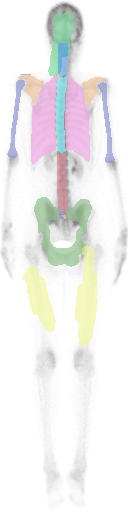
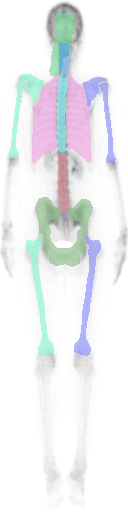
split done

diff --git a/templates/label_front.html b/templates/label_front.html
@@ -64,15 +64,19 @@
 						<Label value="Skull" background="rgba(21, 193, 78, 0.7)"/>
 						<Label value="Cervical Vert" background="rgba(0, 121, 255, 0.7)"/>
 						<Label value="Thoracic Vert" background="rgba(0, 228, 255, 0.7)"/>
-						<Label value="Clavicle" background="rgba(109, 21, 193, 0.7)"/>
+						<Label value="Clavicle_r" background="rgba(109, 21, 193, 0.7)"/>
+						<Label value="Clavicle_l" background="rgba(109, 21, 193, 0.7)"/>
 						<Label value="Ribs" background="rgba(228, 70, 206, 0.7)"/>
-						<Label value="Scapula" background="rgba(224, 131, 46, 0.7)"/>
+						<Label value="Scapula_r" background="rgba(224, 131, 46, 0.7)"/>
+						<Label value="Scapula_l" background="rgba(224, 131, 46, 0.7)"/>
 						<Label value="Sternum" background="rgba(129, 64, 4, 0.7)"/>
-						<Label value="Humerus" background="rgba(14, 24, 156, 0.7)"/>
+						<Label value="Humerus_r" background="rgba(14, 24, 156, 0.7)"/>
+						<Label value="Humerus_l" background="rgba(14, 24, 156, 0.7)"/>
 						<Label value="Lumbar Vert" background="rgba(235, 210, 52, 0.7)"/>
 						<Label value="Sacrum" background="rgba(255, 122, 0, 0.7)"/>
 						<Label value="Pelvis" background="rgba(16, 119, 7, 0.7)"/>
-						<Label value="Femur" background="rgba(225, 235, 52, 0.7)"/>
+						<Label value="Femur_r" background="rgba(225, 235, 52, 0.7)"/>
+						<Label value="Femur_l" background="rgba(225, 235, 52, 0.7)"/>
 					</BrushLabels>
 				</View>
 			  `,

diff --git a/module/my_engine_modified_v2.py b/module/my_engine_modified_v2.py
@@ -158,41 +158,140 @@ def crop(img_direction):
 
     d = img.getdata()
 
-    bone_name = ["Skull", "CervicalVert", "ThoracicVert", "Ribs", "Strenum", "Clavicle", "Scapula", "Humerus", "LumbarVert", "Sacrum", "Pelvis", "Femur"]
+    # bone_name = ["Skull", "CervicalVert", "ThoracicVert", "Ribs", "Strenum", "Clavicle", "Scapula", "Humerus", "LumbarVert", "Sacrum", "Pelvis", "Femur"]
+    bone_name = ["Skull", 
+                "CervicalVert", 
+                "ThoracicVert", 
+                "Ribs", 
+                "Strenum", 
+                "Clavicle_r", 
+                "Clavicle_l", 
+                "Scapula_r", 
+                "Scapula_l", 
+                "Humerus_r", 
+                "Humerus_l", 
+                "LumbarVert", 
+                "Sacrum", 
+                "Pelvis", 
+                "Femur_r", 
+                "Femur_l"]
     color = [0, 17, 34, 51, 68, 85, 102, 119, 136, 153, 170, 187]
 
     index_bone_name = 0
 
-    for c in color:
+    for bone in bone_name:
         new_image = []
         img = Image.open(img_path)
         img = img.convert("RGBA")
+        # why 1? its stack perfectly for loop
+        # counter is for determine L & R from image; Splitted image = clavicle, scapula, humerus, femur
+        counter = 1
+
+        # determine color code
+        # ic = index_color
+        ic = 0
+        if bone == "Skull":
+            # 0
+            ic = color[0]
+        elif bone == "CervicalVert":
+            # 17
+            ic = color[1]
+        elif bone == "ThoracicVert":
+            # 34
+            ic = color[2]
+        elif bone == "Ribs":
+            # 51
+            ic = color[3]
+        elif bone == "Strenum":
+            # 68
+            ic = color[4]
+        elif bone == "Clavicle_r" or bone == "Clavicle_l":
+            # 85
+            ic = color[5]
+        elif bone == "Scapula_r" or bone == "Scapula_l":
+            # 102
+            ic = color[6]
+        elif bone == "Humerus_r" or bone == "Humerus_l":
+            # 119
+            ic = color[7]
+        elif bone == "LumbarVert":
+            # 136
+            ic = color[8]
+        elif bone == "Sacrum":
+            # 153
+            ic = color[9]
+        elif bone == "Pelvis":
+            # 170
+            ic = color[10]
+        elif bone == "Femur_r" or bone == "Femur_l":
+            # 187
+            ic = color[11]
+
+        # re-coloring the image
         for item in d:
-            if item[2] in list(range(c,c+1)):
-                if c == 0:
+            # reset the counter
+            if counter >= 200:
+                counter = 1
+            else:
+                counter+=1
+
+            if item[2] in list(range(ic,ic+1)):
+                if ic == 0:
                     new_image.append((21, 193, 78, 190))
-                elif c == 17:
+                elif ic == 17:
                     new_image.append((0, 121, 255, 190))
-                elif c == 34:
+                elif ic == 34:
                     new_image.append((0, 228, 255, 190))
-                elif c == 85:
-                    new_image.append((109, 21, 193, 190))
-                elif c == 51:
+
+                elif ic == 85:
+                    if counter <= 99 and "_r" in bone:
+                        new_image.append((14, 240, 156, 190))
+                    elif counter > 99 and "_l" in bone:
+                        new_image.append((14, 24, 250, 190))
+                    else:
+                        new_image.append((255,255,255,0))
+                    # new_image.append((109, 21, 193, 190))
+
+                elif ic == 51:
                     new_image.append((228, 70, 206, 190))
-                elif c == 102:
-                    new_image.append((224, 131, 46, 190))
-                elif c == 68:
+
+                elif ic == 102:
+                    if counter <= 99 and "_r" in bone:
+                        new_image.append((14, 240, 156, 190))
+                    elif counter > 99 and "_l" in bone:
+                        new_image.append((14, 24, 250, 190))
+                    else:
+                        new_image.append((255,255,255,0))
+                    # new_image.append((224, 131, 46, 190))
+                    
+                elif ic == 68:
                     new_image.append((129, 64, 4, 190))
-                elif c == 119:
-                    new_image.append((14, 24, 156, 190))
-                elif c == 136:
+
+                elif ic == 119:
+                    if counter <= 99 and "_r" in bone:
+                        new_image.append((14, 240, 156, 190))
+                    elif counter > 99 and "_l" in bone:
+                        new_image.append((14, 24, 250, 190))
+                    else:
+                        new_image.append((255,255,255,0))
+
+                    # new_image.append((14, 240, 156, 190))
+                        
+                elif ic == 136:
                     new_image.append((166, 5, 29, 190))
-                elif c == 153:
+                elif ic == 153:
                     new_image.append((255, 122, 0, 190))
-                elif c == 170:
+                elif ic == 170:
                     new_image.append((16, 119, 7, 190))
-                elif c == 187:
-                    new_image.append((225, 235, 52, 190))
+
+                elif ic == 187:
+                    if counter <= 99 and "_r" in bone:
+                        new_image.append((14, 240, 156, 190))
+                    elif counter > 99 and "_l" in bone:
+                        new_image.append((14, 24, 250, 190))
+                    else:
+                        new_image.append((255,255,255,0))
+                    # new_image.append((225, 235, 52, 190))
                 # new_image.append((55, 0, 75))
             else:
                 new_image.append((255,255,255,0))
@@ -201,13 +300,27 @@ def crop(img_direction):
         img.putdata(new_image)
 
         # save new image
-        # file_format = ".png"
-        # img.save( save_path + bone_name[index_bone_name] + file_format)
         img.save(f"{save_path+bone_name[index_bone_name]}.png")
         index_bone_name += 1
 
 def final_render():
-    bone_name = ["Skull", "CervicalVert", "ThoracicVert", "Ribs", "Strenum", "Clavicle", "Scapula", "Humerus", "LumbarVert", "Sacrum", "Pelvis", "Femur"]
+    # bone_name = ["Skull", "CervicalVert", "ThoracicVert", "Ribs", "Strenum", "Clavicle", "Scapula", "Humerus", "LumbarVert", "Sacrum", "Pelvis", "Femur"]
+    bone_name = ["Skull", 
+                "CervicalVert", 
+                "ThoracicVert", 
+                "Ribs", 
+                "Strenum", 
+                "Clavicle_r", 
+                "Clavicle_l", 
+                "Scapula_r", 
+                "Scapula_l", 
+                "Humerus_r", 
+                "Humerus_l", 
+                "LumbarVert", 
+                "Sacrum", 
+                "Pelvis", 
+                "Femur_r", 
+                "Femur_l"]
 
     # img = Image.open('upload/img/img_front.png')
 

diff --git a/module/decode.py b/module/decode.py
@@ -97,15 +97,15 @@ def convert_to_png(path, pos):
         r, g, b, a = 0, 121, 255, 190
     elif img_name == 'ThoracicVert':
         r, g, b, a = 0, 228, 255, 190
-    elif img_name == 'Clavicle':
+    elif img_name == 'Clavicle_r' or img_name == 'Clavicle_l':
         r, g, b, a = 109, 21, 193, 190
     elif img_name == 'Ribs':
         r, g, b, a = 228, 70, 206, 190
-    elif img_name == 'Scapula':
+    elif img_name == 'Scapula_r' or img_name == 'Scapula_l':
         r, g, b, a = 224, 131, 46, 190
     elif img_name == 'Sternum':
         r, g, b, a = 129, 64, 4, 190
-    elif img_name == 'Humerus':
+    elif img_name == 'Humerus_r' and img_name == 'Humerus_l':
         r, g, b, a = 14, 24, 156, 190
     elif img_name == 'LumbarVert':
         r, g, b, a = 166, 5, 29, 190
@@ -113,7 +113,7 @@ def convert_to_png(path, pos):
         r, g, b, a = 255, 122, 0, 190
     elif img_name == 'Pelvis':
         r, g, b, a = 16, 119, 7, 190
-    elif img_name == 'Femur':
+    elif img_name == 'Femur_r' and img_name == 'Femur_l':
         r, g, b, a = 225, 235, 52, 190
     else:
         r, g, b, a = 255, 255, 255, 190
